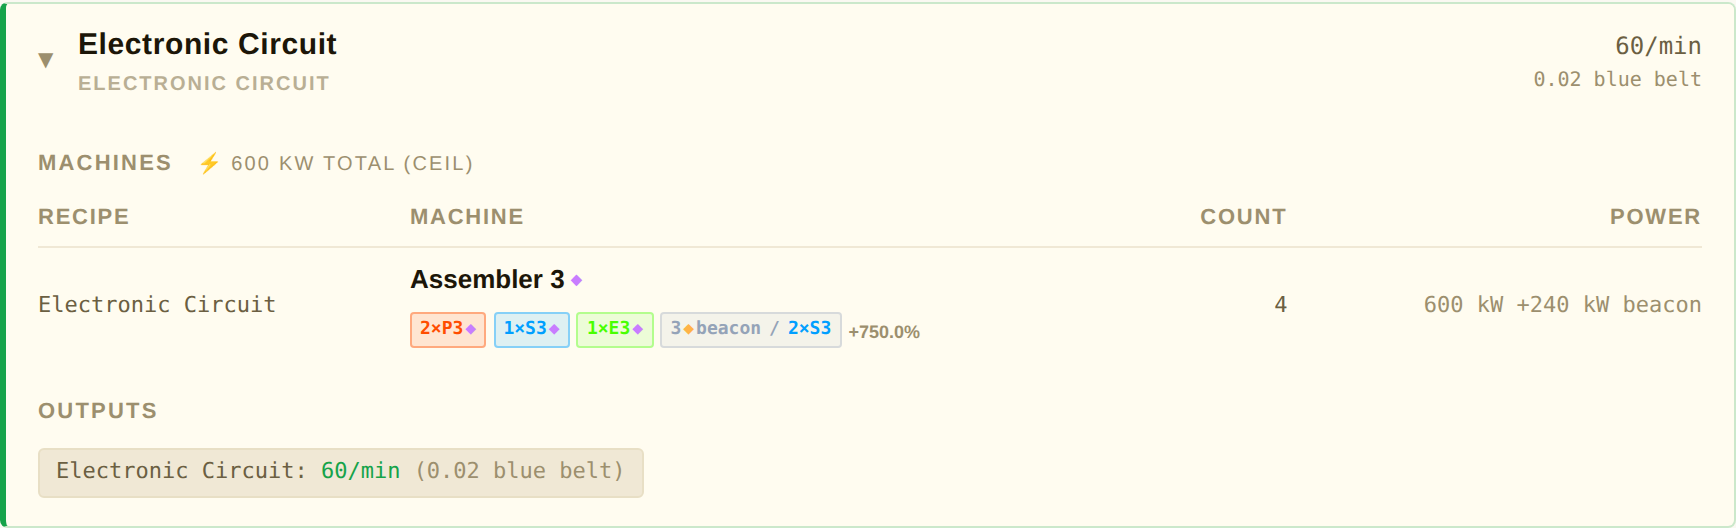
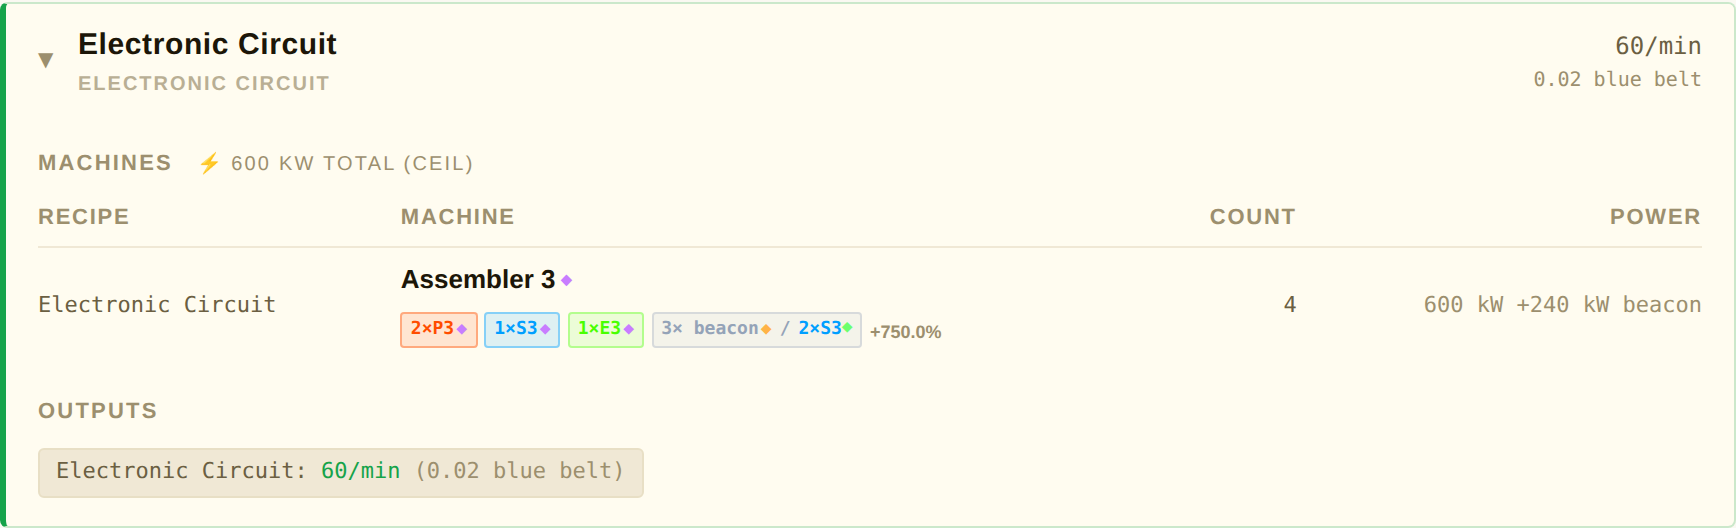
Decouple beacon module quality from housing; fix chip label convention
- Beacon module quality now uses a +2 offset from housing quality so
  it's always different and gives a spread across all 5 tiers
- Beacon chip label changed from '4◆ beacon' to '4× beacon◆' to match
  the module chip convention (count×label◆)

https://claude.ai/code/session_01SyKx24fZjBrdm6oV2dN8BW

diff --git a/dev/dashboard.html b/dev/dashboard.html
@@ -638,7 +638,7 @@ function bcnChip(b, housingQ) {
     const qdot  = m.quality !== 'normal' ? `<span class="qdot q-${m.quality}">◆</span>` : '';
     return `<span style="color:${color}">${m.count}×${abbr}${m.tier}${qdot}</span>`;
   }).join('\u00a0');
-  return `<span class="bcn-chip">${b.count}${houseDot} beacon<span class="bcn-sep">/</span>${modsHtml}</span>`;
+  return `<span class="bcn-chip">${b.count}× beacon${houseDot}<span class="bcn-sep">/</span>${modsHtml}</span>`;
 }
 
 // ── State ────────────────────────────────────────────────────────────────────

diff --git a/dev/screenshot_tests.py b/dev/screenshot_tests.py
@@ -30,17 +30,29 @@ BEACON_EFFECTIVITY = {"normal": 1.5, "uncommon": 1.7, "rare": 1.9, "epic": 2.1, 
 BEACON_POWER_KW    = {"normal": 480, "uncommon": 400, "rare": 320, "epic": 240, "legendary": 80}
 SPEED3_BONUS = 0.5  # speed-3 bonus per module
 
-# Beacon configs vary by quality: fewer beacons for higher effectivity,
-# some with efficiency modules to show visual variety.
-BEACON_CONFIGS = {
-    "normal":    {"count": 8, "modules": [{"count": 2, "type": "speed",      "tier": 3, "quality": "normal"}]},
-    "uncommon":  {"count": 6, "modules": [{"count": 2, "type": "speed",      "tier": 3, "quality": "normal"}]},
-    "rare":      {"count": 5, "modules": [{"count": 1, "type": "speed",      "tier": 3, "quality": "normal"},
-                                          {"count": 1, "type": "efficiency",  "tier": 3, "quality": "normal"}]},
-    "epic":      {"count": 4, "modules": [{"count": 1, "type": "speed",      "tier": 3, "quality": "normal"},
-                                          {"count": 1, "type": "efficiency",  "tier": 3, "quality": "normal"}]},
-    "legendary": {"count": 3, "modules": [{"count": 2, "type": "speed",      "tier": 3, "quality": "normal"}]},
+# Beacon layout configs (count + module types) vary by housing quality.
+# Module quality is assigned independently using a +2 offset so it never
+# matches the housing quality and gives a spread across all 5 tiers.
+BEACON_LAYOUTS = {
+    "normal":    {"count": 8, "module_types": [("speed", 2)]},
+    "uncommon":  {"count": 6, "module_types": [("speed", 2)]},
+    "rare":      {"count": 5, "module_types": [("speed", 1), ("efficiency", 1)]},
+    "epic":      {"count": 4, "module_types": [("speed", 1), ("efficiency", 1)]},
+    "legendary": {"count": 3, "module_types": [("speed", 2)]},
 }
+
+def beacon_module_quality(beacon_quality: str) -> str:
+    """Return a module quality that differs from the housing quality (+2 offset)."""
+    return QUALITIES[(QUALITIES.index(beacon_quality) + 2) % len(QUALITIES)]
+
+def make_beacon_spec(beacon_quality: str) -> dict:
+    layout = BEACON_LAYOUTS[beacon_quality]
+    mq = beacon_module_quality(beacon_quality)
+    return {
+        "count": layout["count"],
+        "modules": [{"count": c, "type": t, "tier": 3, "quality": mq}
+                    for t, c in layout["module_types"]],
+    }
 
 # Machine module configs vary by machine quality: different combos + matching quality tier.
 def _m(count, mtype, quality):
@@ -57,7 +69,7 @@ MACHINE_MODULE_CONFIGS = {
 
 def make_state(machine_quality: str, beacon_quality: str, with_beacon: bool) -> dict:
     if with_beacon:
-        spec = BEACON_CONFIGS[beacon_quality]
+        spec = make_beacon_spec(beacon_quality)
         effectivity = BEACON_EFFECTIVITY[beacon_quality]
         speed_mods = sum(m["count"] for m in spec["modules"] if m["type"] == "speed")
         beacon_speed_bonus = spec["count"] * speed_mods * SPEED3_BONUS * effectivity
